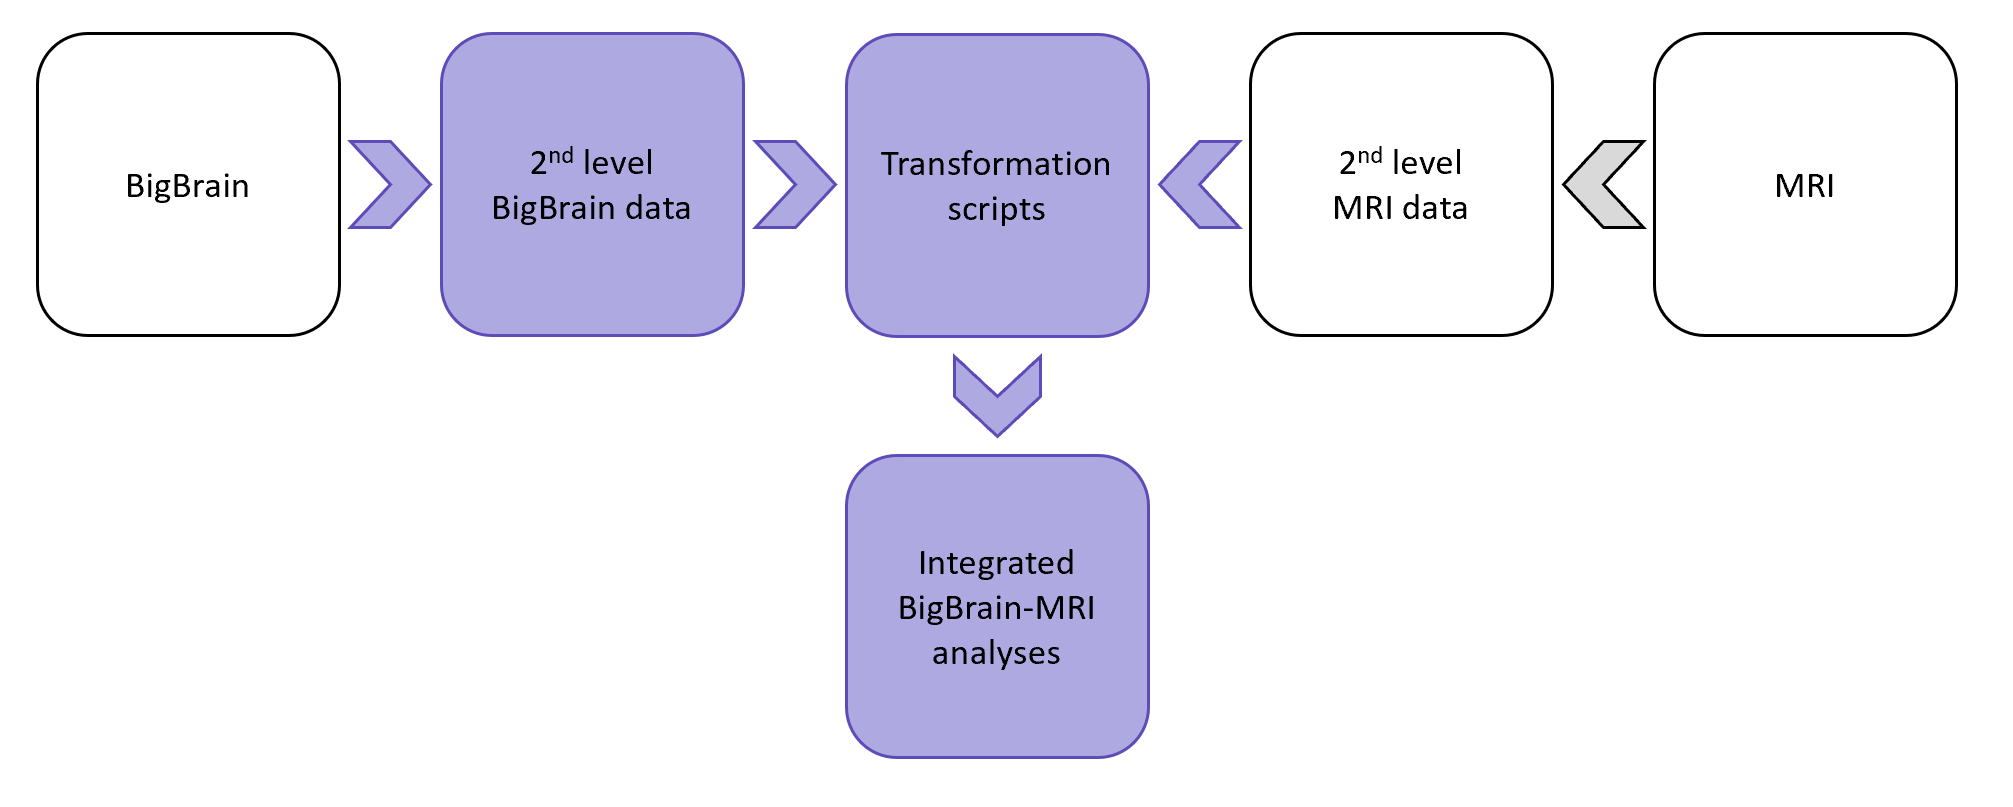
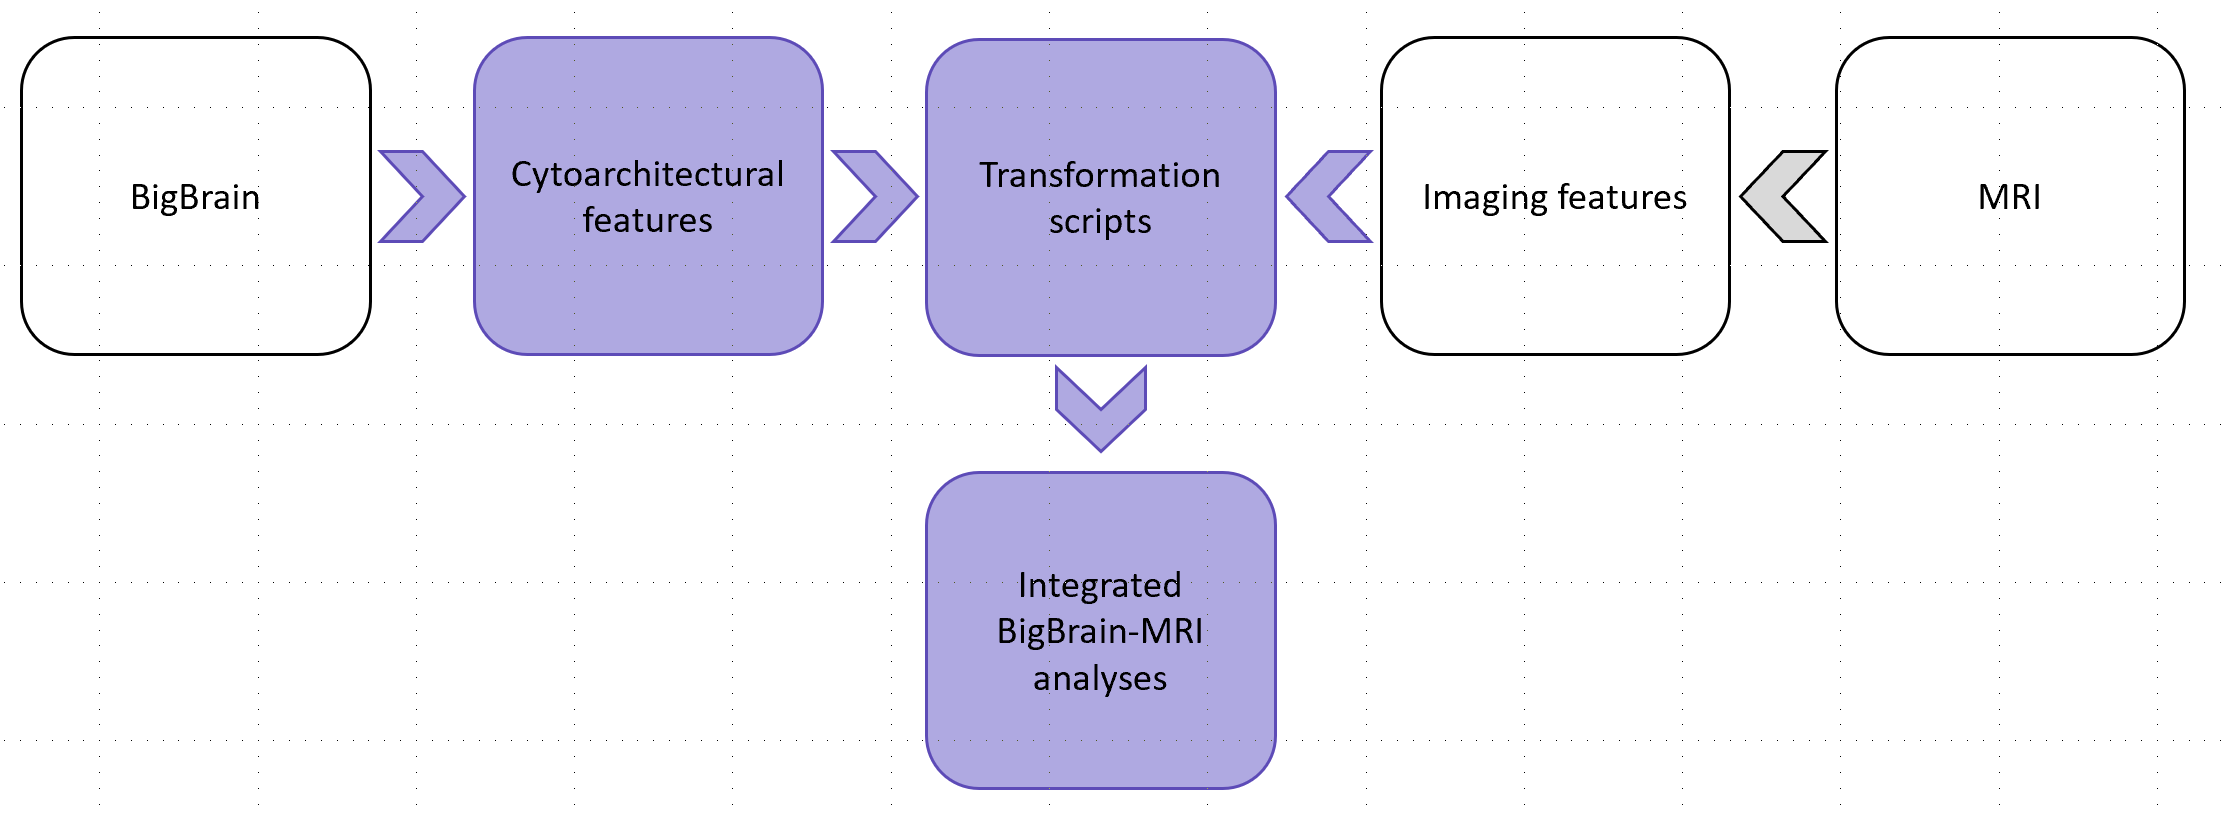
updating website

diff --git a/docs/pages/tutorial_confluence.rst b/docs/pages/tutorial_confluence.rst
@@ -3,7 +3,7 @@ Tutorial 3: Variations in resting state functional connectivity along a histolog
 
 In this tutorial, we aim to transform an axis defined on the BigBrain surface to a standard MRI volume, then explore variations in resting state functional connectivity (rsFC) along the histological axis.
 
-First, we should identify the input data and the necessary transformations. In this particular case, we’ll be using microstructure profiles constructed across the medial temporal lobe, ie: the `cortical confluence <https://bigbrainwarp.readthedocs.io/en/latest/pages/glossary.html>`_, which are linked to surfaces in BigBrain space. The rs-fMRI data comes from 50 healthy adults, acquired as part of MICs, and are already preprocessed using `micapipe <https://micapipe.readthedocs.io/en/latest/>`_. Specifically, we’ll use deconfounded BOLD timeseries that have already been nonlinearly transformed to ICBM152 space. This means we’ll need to propagate the BigBrain-defined axis from surface to volume space, then perform a transformation from BigBrain volume to the ICBM152 volume. Fortunately, a nonlinear BigBrain-to-ICBM152 transformation has already been optimised and openly shared by `Xiao et al., (2019) <https://www.nature.com/articles/s41597-019-0217-0>`_ 🥳, so all we will have to work out is how to project the axis into the BigBrain volume and how to use the Xiao et al., transformation matrix. 
+First, we should identify the input data and the necessary transformations. In this particular case, we’ll be using microstructure profiles constructed across the medial temporal lobe, i.e., the `cortical confluence <https://bigbrainwarp.readthedocs.io/en/latest/pages/glossary.html>`_, which are linked to surfaces in BigBrain space. The rs-fMRI data comes from 50 healthy adults, acquired as part of MICs, and are already preprocessed using `micapipe <https://micapipe.readthedocs.io/en/latest/>`_. Specifically, we’ll use deconfounded BOLD timeseries that have already been nonlinearly transformed to ICBM152 space. This means we’ll need to propagate the BigBrain-defined axis from surface to volume space, then perform a transformation from BigBrain volume to the ICBM152 volume. Fortunately, a nonlinear BigBrain-to-ICBM152 transformation has already been optimised and openly shared by `Xiao et al., (2019) <https://www.nature.com/articles/s41597-019-0217-0>`_ 🥳, so all we will have to work out is how to project the axis into the BigBrain volume and how to use the Xiao et al., transformation matrix.
 
 Let’s begin with the construction of the histological axis. Here, we’re interested in capturing the principle axis of cytoarchitectural differentiation in the medial temporal lobe. For this project, we bridged hippocampal and `isocortical <https://bigbrainwarp.readthedocs.io/en/latest/pages/glossary.html>`_ surface meshes of BigBrain, which were both in native BigBrain space. This provides an ultra-high-resolution depiction of the curvature of the mesiotemporal lobe. Then, we can map the geodesic distance from each vertex to the intersection, creating an iso-to-allocortical axis in the mesiotemporal lobe. Additionally, we generate 14 intracortical `equivolumetric <https://bigbrainwarp.readthedocs.io/en/latest/pages/glossary.html>`_ surfaces between the pial/inner and white matter/outer surfaces to capture the full expanse of mesiotemporal lobe and to facilitate characterisation of the cytoarchitecture. For now, we will focus on the distance-based iso-to-allocortical axis.
 

diff --git a/docs/index.rst b/docs/index.rst
@@ -20,17 +20,31 @@
 
 Integrating BigBrain with multi-modal imaging 
 ----------------------------------------------------
-BigBrain is a singular dataset that offers an ultra-high-resolution (20µm) volumetric reconstruction of a sliced and stained post mortem human brain. BigBrainWarp aims to enable multi-modal integration of BigBrain, helping a wide range of neuroscientists to utilise the cytoarchitectural information encoded in BigBrain. 
+BigBrain is a singular dataset that offers an ultra-high-resolution (20µm) volumetric reconstruction of a sliced and stained post-mortem human brain (Amunts et al. 2013). *BigBrainWarp* aims to enable integration of BigBrain with neuroimaging and other neurobiological modalities, helping a wide range of neuroscientists to utilise the cytoarchitectural information encoded in BigBrain for multi-scale neuroscientific discovery.
 
 .. image:: ./pages/images/toolbox_overview.png
-   :height: 250px
+   :height: 350px
    :align: center
 
-In the toolbox, you’ll find preprocessed BigBrain data, scripts to transform between BigBrain and standard MRI spaces, and a selection of maps already transformed across surfaces. 
+
+In the toolbox, you’ll find preprocessed BigBrain data, scripts to transform between BigBrain and standard MRI spaces, and a selection of histology-derived feature maps already transformed to MRI space.
 
 Additionally, we’ve created a series of tutorials that illustrate potential workflows for BigBrain-MRI integration.
 
 🚧 The toolbox and readthedocs are still under construction. If you're interested in certain features or data, please get in touch and we can let you know whether it's finalised and provide the most up to date version. 
+
+
+
+Tips for Getting Started
+****************************
+
+* Progress along the side menu from top to bottom
+* For performing transformations, go to the Scripts page
+* For ready-made cytoarchitectural features and maps, check out the Toolbox contents page
+* The Tutorials are intended show interesting ways to use BigBrain with multi-modal imaging. They also contain more details on what's under the hood of the *BigBrainWarp*.
+* Get in touch if you have any questions 🤙
+
+
 
 .. raw:: html
 
@@ -44,8 +58,6 @@ Additionally, we’ve created a series of tutorials that illustrate potential wo
    
    pages/installation
    pages/bigbrain_background
-   pages/FAQs
-   pages/glossary
 
 .. toctree::
    :maxdepth: 1
@@ -68,8 +80,10 @@ Additionally, we’ve created a series of tutorials that illustrate potential wo
 .. toctree::
    :maxdepth: 1
    :hidden:
-   :caption: References & acknowledgements
+   :caption: Footnotes
 
+   pages/FAQs
+   pages/glossary   
    pages/references
    pages/acknowledgements
    pages/contributors
@@ -84,8 +98,15 @@ ________________________________________________________________________________
 Core developers 
 ------------------
 
-- Casey Paquola, MICA Lab, Montreal Neurological Institute
+- Casey Paquola, INM-1, Forschungszentrum Jülich & MICA Lab, Montreal Neurological Institute
 - Boris Bernhardt, MICA Lab, Montreal Neurological Institute
+
+
+Contributors
+------------------
+
+- Jessica Royer, MICA Lab, Montreal Neurological Institute
+- Tristan Glatard, Concordia Univerisity
 
 
 Please drop us a line if you're interested in contributing!

diff --git a/docs/pages/scripts.rst b/docs/pages/scripts.rst
@@ -7,18 +7,17 @@ Integrating histological information with in vivo neuroimaging can deepen our un
 Transformations in volume space
 ********************************
 
-Recently, Xiao et al., (2019) optimised a nonlinear transformation procedure to move between BigBrainSym and `ICBM152 <https://www.bic.mni.mcgill.ca/ServicesAtlases/ICBM152NLin2009>`_. We'll use these transformations to intilialise the transformations between ICBM152 to BigBrain volumes.
-The script requires the path to the file you want to transform (can be .mnc or .nii), the BigBrain space (histological or sym), interpolation method (linear or nearest neighbour), your working directory and whether you would like the function to clean up intermediary files. 
+Recently, Xiao et al., (2019) optimised a nonlinear transformation procedure to move between BigBrainSym and `ICBM152 <https://www.bic.mni.mcgill.ca/ServicesAtlases/ICBM152NLin2009>`_. We’ll use these transformations to initialise the transformations between ICBM152 to BigBrain volumes. The script requires the path to the file you want to transform (can be in .mnc or .nii format), the BigBrain space (histological or sym), the interpolation method (linear or nearest neighbour) and your working directory.
 
 .. code-block:: bash
 
 	# For example, if you've definied a region of interest in BigBrain histological space, this can be transformed to ICBM152 like so:
-	sh bigbrain_to_icbm.sh /projects/casey/bigbrain/ROI.mnc histological nearest /projects/casey/bigbrain/ y
+	bash bigbrain_to_icbm.sh /projects/casey/bigbrain/ROI.mnc histological nearest /projects/casey/bigbrain/
 	# This will output /projects/casey/bigbrain/ROI_icbm.mnc
 	# You can examine the output by overlaying it on BigBrainWarp/spaces/icbm/mni_icbm152_t1_tal_nlin_sym_09c.mnc
 
 	# Conversely, if you have, say, an activation map in ICBM152 space, you can use the opposite script to transform it to BigBrain:
-	sh icbm_to_bigbrain.sh /projects/casey/bigbrain/activation.nii sym linear /projects/casey/bigbrain/ n
+	bash icbm_to_bigbrain.sh /projects/casey/bigbrain/activation.nii sym linear /projects/casey/bigbrain/
 	# The output will be /projects/casey/bigbrain/activation_bigbrain.nii
 	# Note, the final file type (.mnc or .nii) is determined by the input
 
@@ -33,11 +32,11 @@ The following bash scripts will call the necessary matlab functions and are best
 .. code-block:: bash
 
 	# Take your input data, say group-average qT1 on fsaverage5. The arguments should be entered as left hemisphere, right hemipshere, then output name
-	sh fsaverage_to_bigbrain.sh /projects/casey/bigbrain/qT1_data_lh.txt /projects/casey/bigbrain/qT1_data_rh.txt /projects/casey/bigbrain/qT1
+	bash fsaverage_to_bigbrain.sh /projects/casey/bigbrain/qT1_data_lh.txt /projects/casey/bigbrain/qT1_data_rh.txt /projects/casey/bigbrain/qT1
 	# The output will be /projects/casey/bigbrain/qT1_bigbrain.txt
 
 	# Conversely, you can transform data from BigBrain or BigBrainSym surfaces to fsaverage5 using:
-	sh bigbrain_to_fsaverage.sh lh_data rh_data output_name
+	bash bigbrain_to_fsaverage.sh lh_data rh_data output_name
 
 
 

diff --git a/docs/pages/bigbrain_background.rst b/docs/pages/bigbrain_background.rst
@@ -45,8 +45,7 @@ Since then, a number of additional surface reconstructions have been published f
 How can I interpret the intensity values in the BigBrain volumes? 
 ****************************
 
-Merker staining (ie: that used in BigBrain) is a form of silver impregnation for cell bodies that produces a high contrast of black pigment in cells on a virtually colourless background (`Merker, 1983 <https://doi.org/10.1016/0165-0270(83)90086-9>`_). Stained histological sections were then digitized at 20µm, resulting in greyscale images with darker colouring where many or large cells occur. The density and size of cells varies across cortical depths and areas, thus capturing the regional differentiation of cytoarchitecture. To explore these variations computationally, we create staining intensity profiles (Figure C). The best approach at the moment involves equivolumetric surface construction, whereby the surfaces are initialised at equidistant depths, then modulated by the curvature of the cortex (`Waehnert et al., 2014 <https://doi.org/10.1016/j.neuroimage.2013.03.078>`_). This holds advantages for histological data because laminar vary in thickness depending on curvature of the cortex (Bok, 1929).  For the present purpose, we generate equivolumetric surfaces between the grey and white matter surfaces, then sample the intensity values along matched vertices in direction of cortical columns. You can find pre-generated staining intensity profiles using 50 intracortical surfaces and the 100µm BigBrain volume in the repository **BigBrainWarp/spaces/bigbrain/profiles.txt**.
-
+Merker staining (ie: that used in BigBrain) is a form of silver impregnation for cell bodies that produces a high contrast of black pigment in cells on a virtually colourless background (`Merker, 1983 <https://doi.org/10.1016/0165-0270(83)90086-9>`_). Stained histological sections were digitized at 20µm, resulting in greyscale images with darker colouring where many or large cells occur. The density and size of cells varies across cortical depths and areas, thus capturing the regional differentiation of cytoarchitecture. To explore these variations computationally, we create staining intensity profiles (Figure C). One widely adopted involves equivolumetric surface construction, whereby the surfaces are initialised at equidistant depths, then modulated by the curvature of the cortex (`Waehnert et al., 2014 <https://doi.org/10.1016/j.neuroimage.2013.03.078>`_). This holds advantages for histological data because laminae vary in thickness depending on curvature of the cortex (Bok, 1929).  For the present purpose, we generate equivolumetric surfaces between the grey and white matter surfaces, then sample the intensity values along matched vertices in direction of cortical columns. You can find pre-generated staining intensity profiles using 50 intracortical surfaces and the 100µm BigBrain volume in the repository **BigBrainWarp/spaces/bigbrain/profiles.txt**.
 .. image:: ./images/bigbrain_background_a.png
    :height: 300px
    :align: center

diff --git a/docs/pages/FAQs.rst b/docs/pages/FAQs.rst
@@ -1,7 +1,9 @@
 Frequently Asked Questions
 ====================================
 
-**What's the difference between BigBrain and BigBrainSym?** The original volumetric reconstruction of BigBrain is tilted compared to a typical brain housed in a skull (see below). To facilitate comparisons with standard neuroimaging spaces, BigBrain was nonlinearly transformed to ICBM152 space, resulting in BigBrainSym. When parsing arguments to scripts in this toolbox, we use the shorthand "histological" for BigBrain and "sym" for BigBrainSym.
+**What's the difference between BigBrain and BigBrainSym?** The original volumetric reconstruction of BigBrain is tilted compared to a typical brain housed in a skull (see below). This has to do with tissue deformations of the specimen post-mortem.
+
+To facilitate comparisons with standard neuroimaging spaces, BigBrain was nonlinearly transformed to ICBM152 space, resulting in BigBrainSym. When parsing arguments to scripts in this toolbox, we use the shorthand "histological" for BigBrain and "sym" for BigBrainSym.
 
 .. figure:: ./images/FAQ_BigBrainSym.png
    :height: 150px
@@ -9,5 +11,7 @@ Frequently Asked Questions
 
 
 **How can I build equivolumetric surfaces?** This can be performed using the `python-based surface tools <https://github.com/kwagstyl/surface_tools/tree/v1.0.0>`_, which we've also translated for `matlab-based pipelines <https://github.com/MICA-MNI/micaopen/blob/master/cortical_confluence/scripts/equivolumetric_surfaces.m>`_. You can also use `micapipe <https://micapipe.readthedocs.io/en/latest/>`_ to generate equivolumetric surfaces and sample microstructure profiles. 
+
+**Are there regions of BigBrain that should be treated with caution?** There is a small tear in the left entorhinal cortex of BigBrain, which affects the pial surface construction as well as microstructure profiles in that region. For region of interest studies, it is always a good idea to carry out a detailed visual inspection. Try out the `EBRAINS interactive viewer https://interactive-viewer.apps.hbp.eu/?templateSelected=Big+Brain+%28Histology%29&parcellationSelected=Cytoarchitectonic+Maps+-+v2.4&cNavigation=0.0.0.-W000..2_ZG29.-ASCS.2-8jM2._aAY3..BSR0..PDY1%7E.rzeq%7E.5qQV..15ye`_
 
 

diff --git a/docs/pages/tutorial_gradients.rst b/docs/pages/tutorial_gradients.rst
@@ -1,7 +1,7 @@
-Tutorial 1: Comparing BigBrain- and MRI-derived gradients on a common surface
+Tutorial 1: Comparing BigBrain- and MRI-derived cortical gradients on a common surface
 ============================================================================================================
 
-In this tutorial, we aim to inspect the convergence of large-scale `gradients <https://bigbrainwarp.readthedocs.io/en/latest/pages/glossary.html>`_ of cytoarchitecture, microstructure and functional connectivity. 
+In this tutorial, we aim to inspect the convergence of large-scale cortical `gradients <https://bigbrainwarp.readthedocs.io/en/latest/pages/glossary.html>`_ of cytoarchitecture, microstructure and functional connectivity. 
 
 First, we need to identify the input data and the transformations necessary to examine BigBrain- and MRI-derived gradients on a common surface. For BigBrain, we can use `microstructure profiles <https://bigbrainwarp.readthedocs.io/en/latest/pages/glossary.html>`_ to resolve the cytoarchitectural gradients. This procedure will involve matrix manipulation that is infeasible with a `327684 <https://bigbrainwarp.readthedocs.io/en/latest/pages/bigbrain_background.html>`_ x 327684 array, however, so we will need to reduce the number of microstructure profiles prior to computation of the cytoarchitectural gradients. For MRI, we can use microstructure profiles of quantitative T1 mapping and resting state fMRI timeseries from the MICs dataset. Individual subject data must be aligned to a standard surface, for example `fsaverage5 (20484 vertices) <https://bigbrainwarp.readthedocs.io/en/latest/pages/glossary.html>`_, then again downsampled to a feasible number of parcels for cross-correlation and embedding. Finally, we will need to define an interpolation strategy from the downsampled BigBrain surface to the downsampled fsaverage5 surface.
 

diff --git a/docs/pages/installation.rst b/docs/pages/installation.rst
@@ -16,6 +16,8 @@ The simplest way to interact with *BigBrainWarp* is using the Docker engine.
 
 	docker run --rm -it caseypaquola/bigbrainwarp bash
 
+For more on interacting with the docker container, for example transferring files between your local machine and the docker container, see https://docs.docker.com/engine/reference/commandline/docker/
+
  
 Alternatively, you can also install a local version of BigBrainWarp like so:
 
@@ -31,18 +33,10 @@ Alternatively, you can also install a local version of BigBrainWarp like so:
 
 If you're working with a local version, you will also need to set up the dependencies:
 
-* All transformations require `MINC2 <https://github.com/BIC-MNI/minc-toolkit-v2>`_ and `FSL <https://fsl.fmrib.ox.ac.uk/fsl/fslwiki>`_
-* Surface-based transformations use python (tested on 2.7), including `numpy <https://numpy.org/>`_, `scipy <https://www.scipy.org/>`_ and `nibabel <https://nipy.org/nibabel/index.html>`_ packages
+* `MINC2 <https://github.com/BIC-MNI/minc-toolkit-v2>`_ is required for volumetric transformations (tested on MINC2-v2)
+* `FSL <https://fsl.fmrib.ox.ac.uk/fsl/fslwiki>`_ is required for volumetric transformations (tested on FSL 5.5)
+* Python (tested on 2.7 and 3.8) is required for surface-based transformations, with `numpy <https://numpy.org/>`_, `scipy <https://www.scipy.org/>`_ and `nibabel <https://nipy.org/nibabel/index.html>`_ packages
 
 These can be located anywhere on your system, just ensure that they are in your PATH and the functions are callable from your command line.
-
-
-Tips for Getting Started
-****************************
-
-* Follow the tutorials to get an understanding of BigBrain-MRI analysis strategies
-* Check out the Glossary and FAQ sections
-* Use the hyperlinks to find related papers
-* Get in touch if you have any questions 🤙
 
 

diff --git a/docs/pages/descriptor.rst b/docs/pages/descriptor.rst
@@ -1,5 +1,7 @@
-Data Descriptor
+Toolbox contents
 ==================
+
+An overview of what scripts and features are contained in *BigBrainWarp*
 
 * scripts
 	* bigbrain_to_icbm.sh: implements one-step transformation to BigBrainSym or three-step transformation BigBrain (Xiao et al. 2019)
@@ -8,6 +10,8 @@ Data Descriptor
 	* fsaverage_to_bigbrain.sh: bash wrapper script to perform nearest neighbour interpolation from fsaverage5 to BigBrain
 	* nn_surface_indexing.m: the creation of nearest neighbour indexing between fsaverage5 and BigBrainSym surfaces
 	* nn_surface_indexing.mat: output of nn_surface_indexing.m
+	* bigbrain2fsaverage.py: python script to perform nearest neighbour interpolation from BigBrain to fsaverage5	
+	* fsaverage2bigbrain.py: python script to perform nearest neighbour interpolation from fsaverage5 to BigBrain	
 	* bigbrain2fsaverage.m: matlab script to perform nearest neighbour interpolation from BigBrain to fsaverage5	
 	* fsaverage2bigbrain.m: matlab script to perform nearest neighbour interpolation from fsaverage5 to BigBrain	
 
